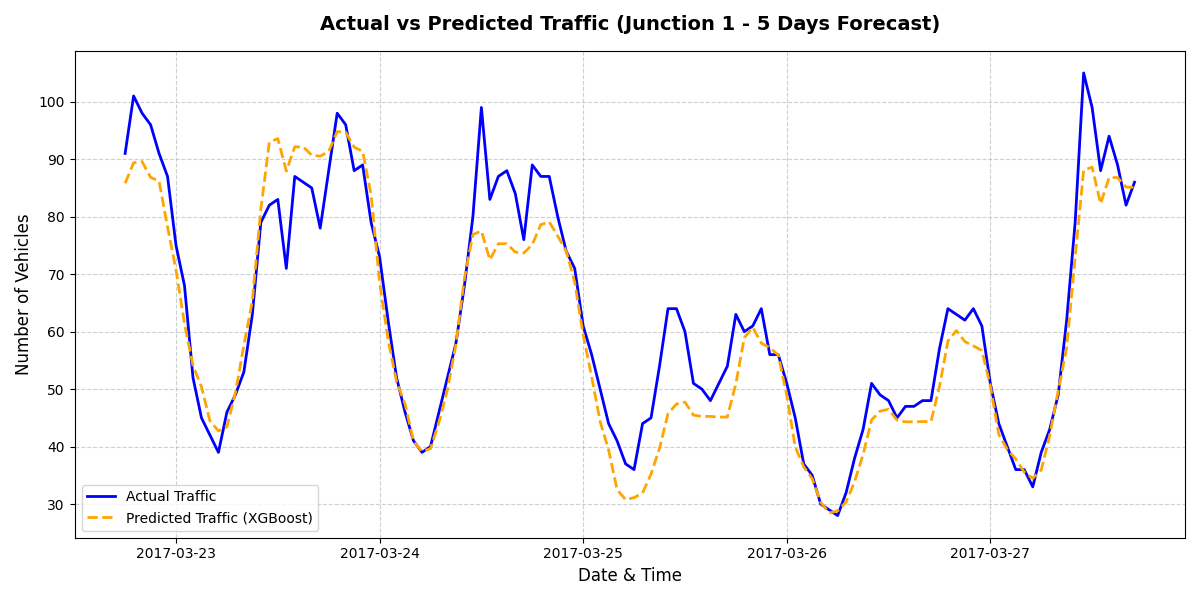
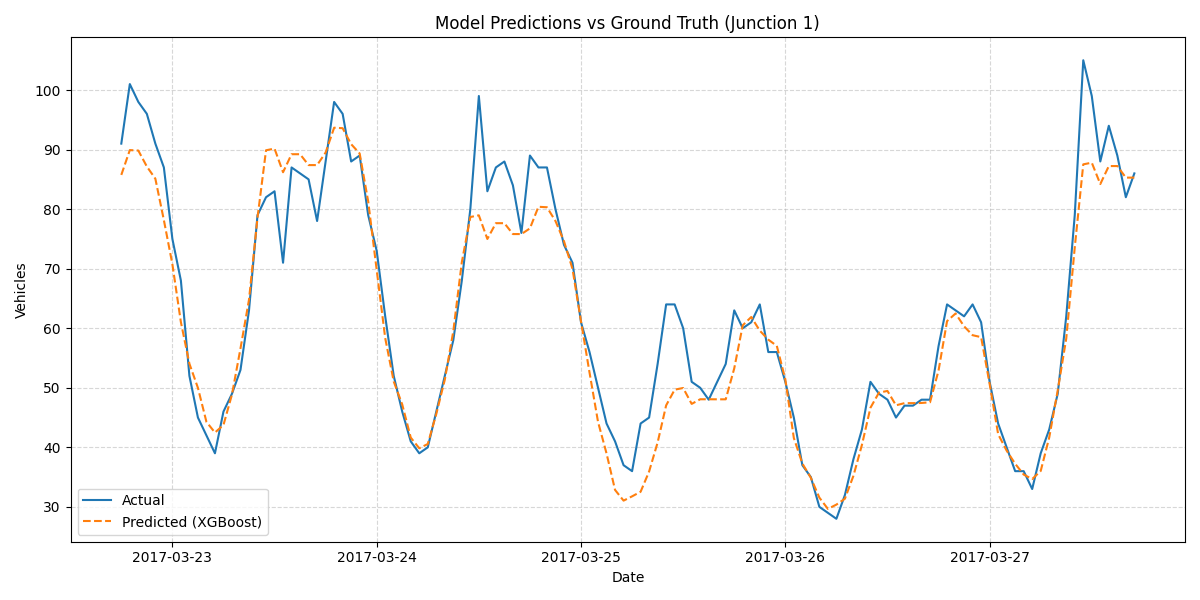
Implement holiday traffic detection feature

diff --git a/train_predict.py b/train_predict.py
@@ -2,17 +2,26 @@ import os
 import pandas as pd
 import numpy as np
 import xgboost as xgb
+import holidays
 from sklearn.metrics import root_mean_squared_error
 import matplotlib.pyplot as plt
 
 def prepare_features(df):
     df['DateTime'] = pd.to_datetime(df['DateTime'])
     df = df.sort_values('DateTime')
+    
+    # Base datetime features
     df['Hour'] = df['DateTime'].dt.hour
     df['DayOfWeek'] = df['DateTime'].dt.dayofweek
     df['DayOfMonth'] = df['DateTime'].dt.day
     df['Month'] = df['DateTime'].dt.month
     df['Year'] = df['DateTime'].dt.year
+    
+    # Holiday feature to capture variations on public holidays (specifically in India)
+    years = df['DateTime'].dt.year.unique()
+    in_holidays = holidays.India(years=years.tolist())
+    df['IsHoliday'] = df['DateTime'].dt.date.apply(lambda x: 1 if x in in_holidays else 0)
+    
     return df
 
 def train_model(X_train, y_train):
@@ -64,7 +73,7 @@ if __name__ == "__main__":
     train_df = df.iloc[:split_idx]
     val_df = df.iloc[split_idx:]
     
-    features = ['Junction', 'Hour', 'DayOfWeek', 'DayOfMonth', 'Month', 'Year']
+    features = ['Junction', 'Hour', 'DayOfWeek', 'DayOfMonth', 'Month', 'Year', 'IsHoliday']
     target = 'Vehicles'
     
     X_train = train_df[features]